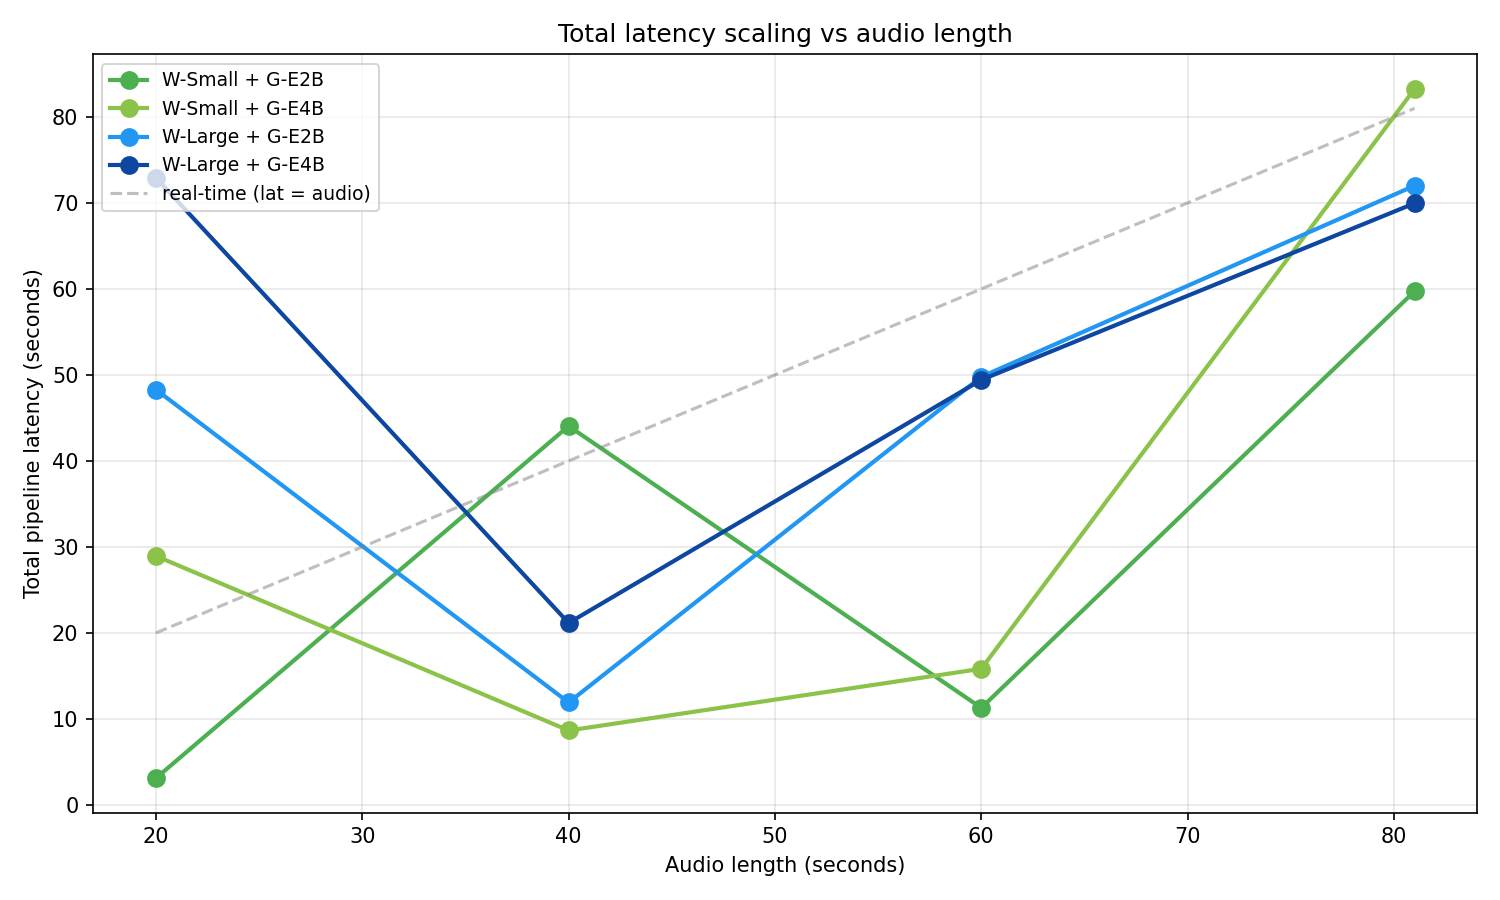
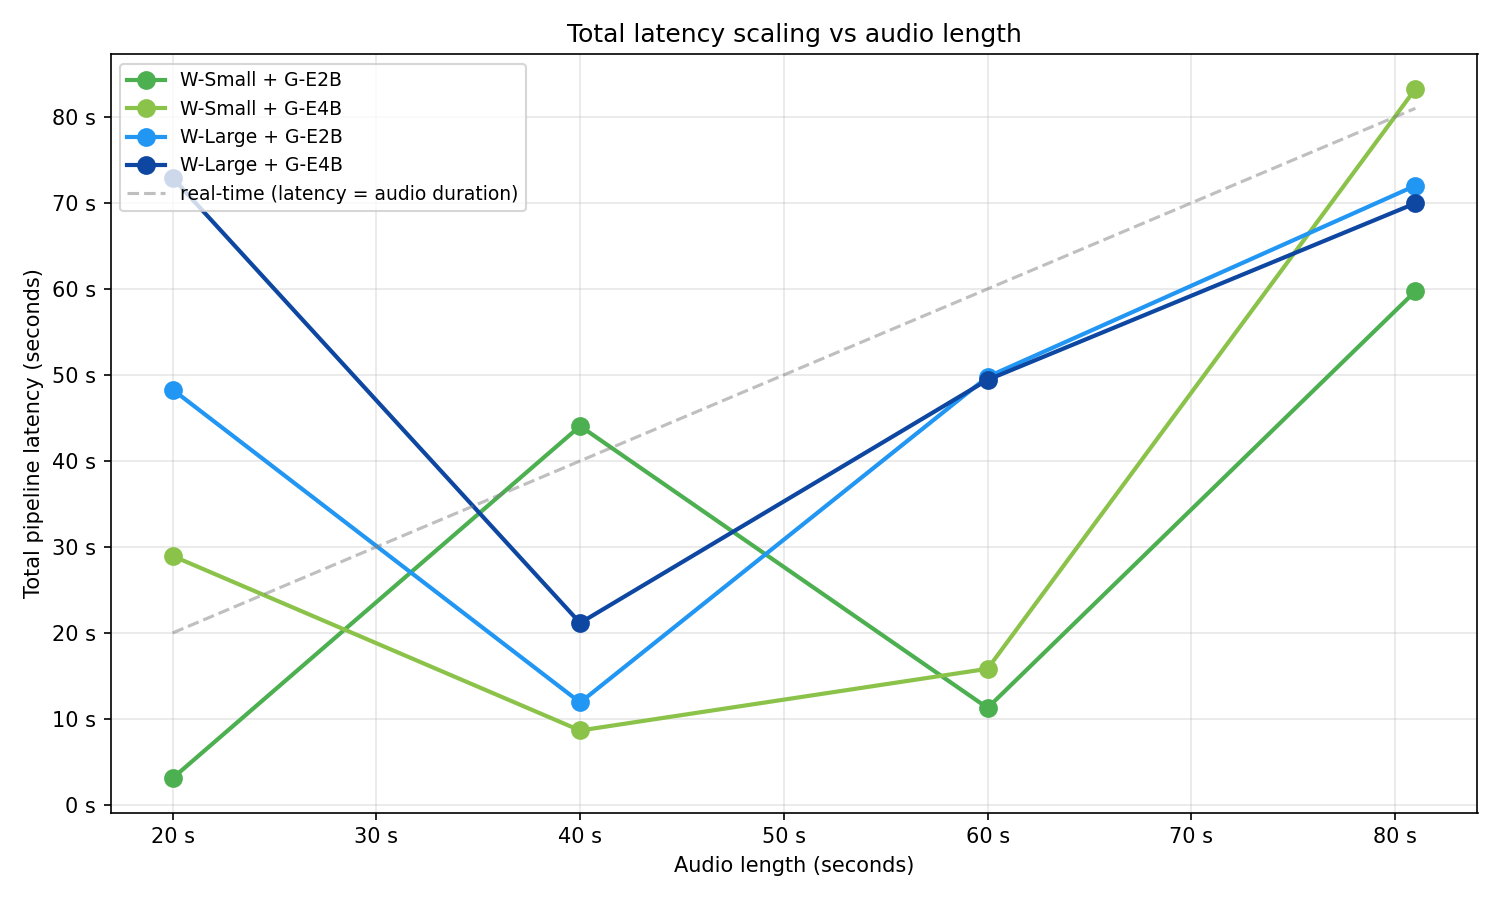
Refactor: Enhance benchmark plotting scripts with improved labeling and formatting for latency and realtime factor visualizations

diff --git a/scripts/plot-bench.py b/scripts/plot-bench.py
@@ -93,10 +93,29 @@ def plot_stacked(rows: list[dict]) -> Path:
                color=COMBO_COLORS[combo], alpha=1.0,
                label=f"{label} — Gemma")
 
+    # Label every bar with its total latency so numbers are readable at a
+    # glance without hunting the y-axis.
+    for i, combo in enumerate(COMBO_ORDER):
+        offset = (i - 1.5) * width
+        for xi, length in enumerate(LENGTH_ORDER):
+            row = next(
+                (r for r in rows
+                 if r["length"] == length
+                 and r["whisper"] == combo[0]
+                 and r["gemma"] == combo[1]),
+                None,
+            )
+            if not row:
+                continue
+            total = (row["whisper_ms"] + row["gemma_ms"]) / 1000
+            ax.text(xi + offset, total + 1.5, f"{total:.0f}s",
+                    ha="center", va="bottom", fontsize=7, color="#333")
+
     ax.set_xticks(x)
-    ax.set_xticklabels([f"{l}\n({LENGTH_SECONDS[l]}s audio)" for l in LENGTH_ORDER])
-    ax.set_ylabel("Latency (seconds)")
+    ax.set_xticklabels([f"{LENGTH_SECONDS[l]} s audio" for l in LENGTH_ORDER])
+    ax.set_ylabel("Pipeline latency (seconds)")
     ax.set_title("Pipeline latency by combo — Whisper (light) + Gemma (solid)")
+    ax.yaxis.set_major_formatter(plt.FuncFormatter(lambda v, _: f"{v:.0f} s"))
     ax.legend(loc="upper left", fontsize=8, ncol=2)
     ax.grid(True, axis="y", alpha=0.3)
     ax.set_axisbelow(True)
@@ -130,11 +149,13 @@ def plot_scaling(rows: list[dict]) -> Path:
 
     # Diagonal: real-time line (latency == audio length).
     ax.plot(audio_seconds, audio_seconds, "--", color="gray", alpha=0.5,
-            label="real-time (lat = audio)")
+            label="real-time (latency = audio duration)")
 
     ax.set_xlabel("Audio length (seconds)")
     ax.set_ylabel("Total pipeline latency (seconds)")
     ax.set_title("Total latency scaling vs audio length")
+    ax.xaxis.set_major_formatter(plt.FuncFormatter(lambda v, _: f"{v:.0f} s"))
+    ax.yaxis.set_major_formatter(plt.FuncFormatter(lambda v, _: f"{v:.0f} s"))
     ax.legend(loc="upper left", fontsize=9)
     ax.grid(True, alpha=0.3)
     ax.set_axisbelow(True)
@@ -170,12 +191,30 @@ def plot_realtime_factor(rows: list[dict]) -> Path:
         label = f"{combo[0].replace('Whisper ', 'W-')} + {combo[1].replace('Gemma ', 'G-')}"
         ax.bar(x + offset, factors, width, color=COMBO_COLORS[combo], label=label)
 
+    # Label every bar with its numeric factor so the magnitude is explicit.
+    for i, combo in enumerate(COMBO_ORDER):
+        offset = (i - 1.5) * width
+        for xi, length in enumerate(LENGTH_ORDER):
+            row = next(
+                (r for r in rows
+                 if r["length"] == length
+                 and r["whisper"] == combo[0]
+                 and r["gemma"] == combo[1]),
+                None,
+            )
+            if not row:
+                continue
+            factor = (row["total_ms"] / 1000) / LENGTH_SECONDS[length]
+            ax.text(xi + offset, factor + 0.05, f"{factor:.2f}×",
+                    ha="center", va="bottom", fontsize=7, color="#333")
+
     ax.axhline(1.0, color="red", linestyle="--", linewidth=1, alpha=0.7,
-               label="real-time threshold")
+               label="real-time threshold (1.0×)")
     ax.set_xticks(x)
-    ax.set_xticklabels([f"{l}" for l in LENGTH_ORDER])
-    ax.set_ylabel("Realtime factor (latency / audio duration)")
-    ax.set_title("Realtime factor — values <1 mean faster than real-time")
+    ax.set_xticklabels([f"{LENGTH_SECONDS[l]} s audio" for l in LENGTH_ORDER])
+    ax.set_ylabel("Realtime factor (× audio duration)")
+    ax.set_title("Realtime factor — values <1× mean faster than real-time")
+    ax.yaxis.set_major_formatter(plt.FuncFormatter(lambda v, _: f"{v:.1f}×"))
     ax.legend(loc="upper right", fontsize=9)
     ax.grid(True, axis="y", alpha=0.3)
     ax.set_axisbelow(True)
